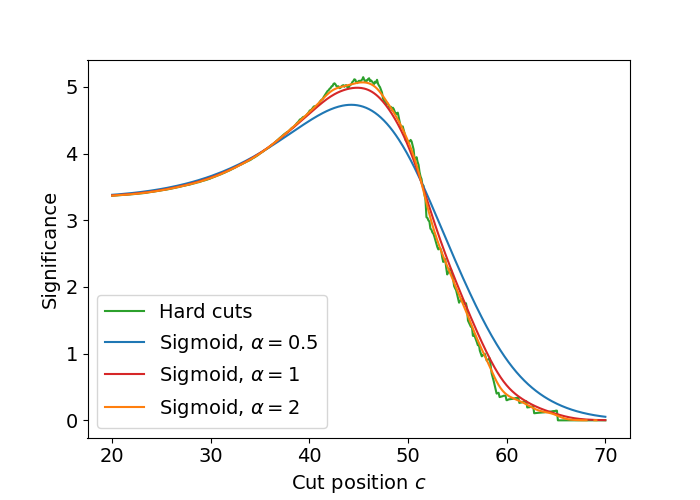
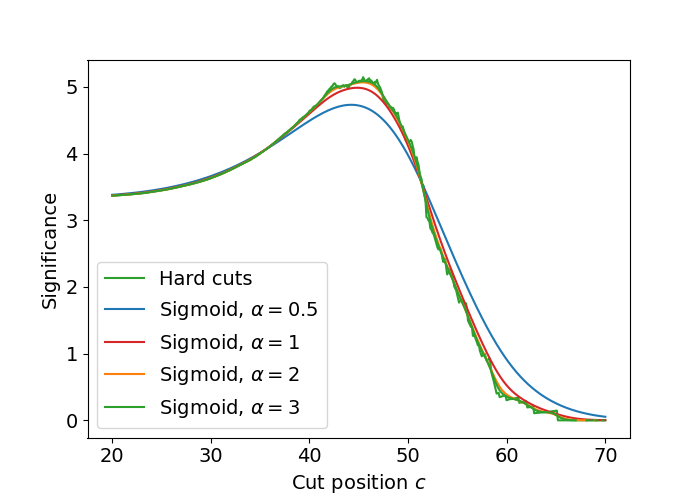
Add better compare

diff --git a/talk.md b/talk.md
@@ -180,13 +180,33 @@ class: focus-slide, center
 ---
 # Compare hard cuts vs. differentiable
 
-- Words go here
+<br>
 
-.kol-1-2.center[
-.width-100[![signal_background_stacked](figures/signal_background_stacked.png)]
+.kol-1-2[
+- For hard cuts the significance was calculated by applying the cut and then using the remaining $S$ and $B$ events
+- But for the differentiable model there aren't cuts, so approximate cuts with the sigmoid approach and weights
+- Comparing the two methods shows good agreement
+- Can see that the approximation to the hard cuts improves with larger $\alpha$
+   - But can become unstable, so tunable
 ]
 .kol-1-2[
 .width-100[![significance_scan_compare](figures/significance_scan_compare.png)]
+]
+
+---
+# Compare hard cuts vs. differentiable
+
+<br>
+
+.kol-1-2[
+- For hard cuts the significance was calculated by applying the cut and then using the remaining $S$ and $B$ events
+- But for the differentiable model there aren't cuts, so approximate cuts with the sigmoid approach and weights
+- Comparing the two methods shows good agreement
+- Can see that the approximation to the hard cuts improves with larger $\alpha$
+   - But can become unstable, so tunable
+]
+.kol-1-2[
+.width-100[![significance_scan_compare_high_alpha](figures/significance_scan_compare_high_alpha.png)]
 ]
 
 
@@ -488,6 +508,10 @@ Please checkout the many resources we have starting with the [website](https://s
 .width-70[[![iris-hep_logo](assets/logos/logo_IRIS-HEP.png)](https://iris-hep.org/)]
 ]
 ]
+---
+# References
+
+1. Lukas Heinrich, .italic[[Distributed Gradients for Differentiable Analysis](https://indico.cern.ch/event/960587/contributions/4070325/)], [Future Analysis Systems and Facilities Workshop](https://indico.cern.ch/event/960587/), 2020.
 
 ---
 # References
